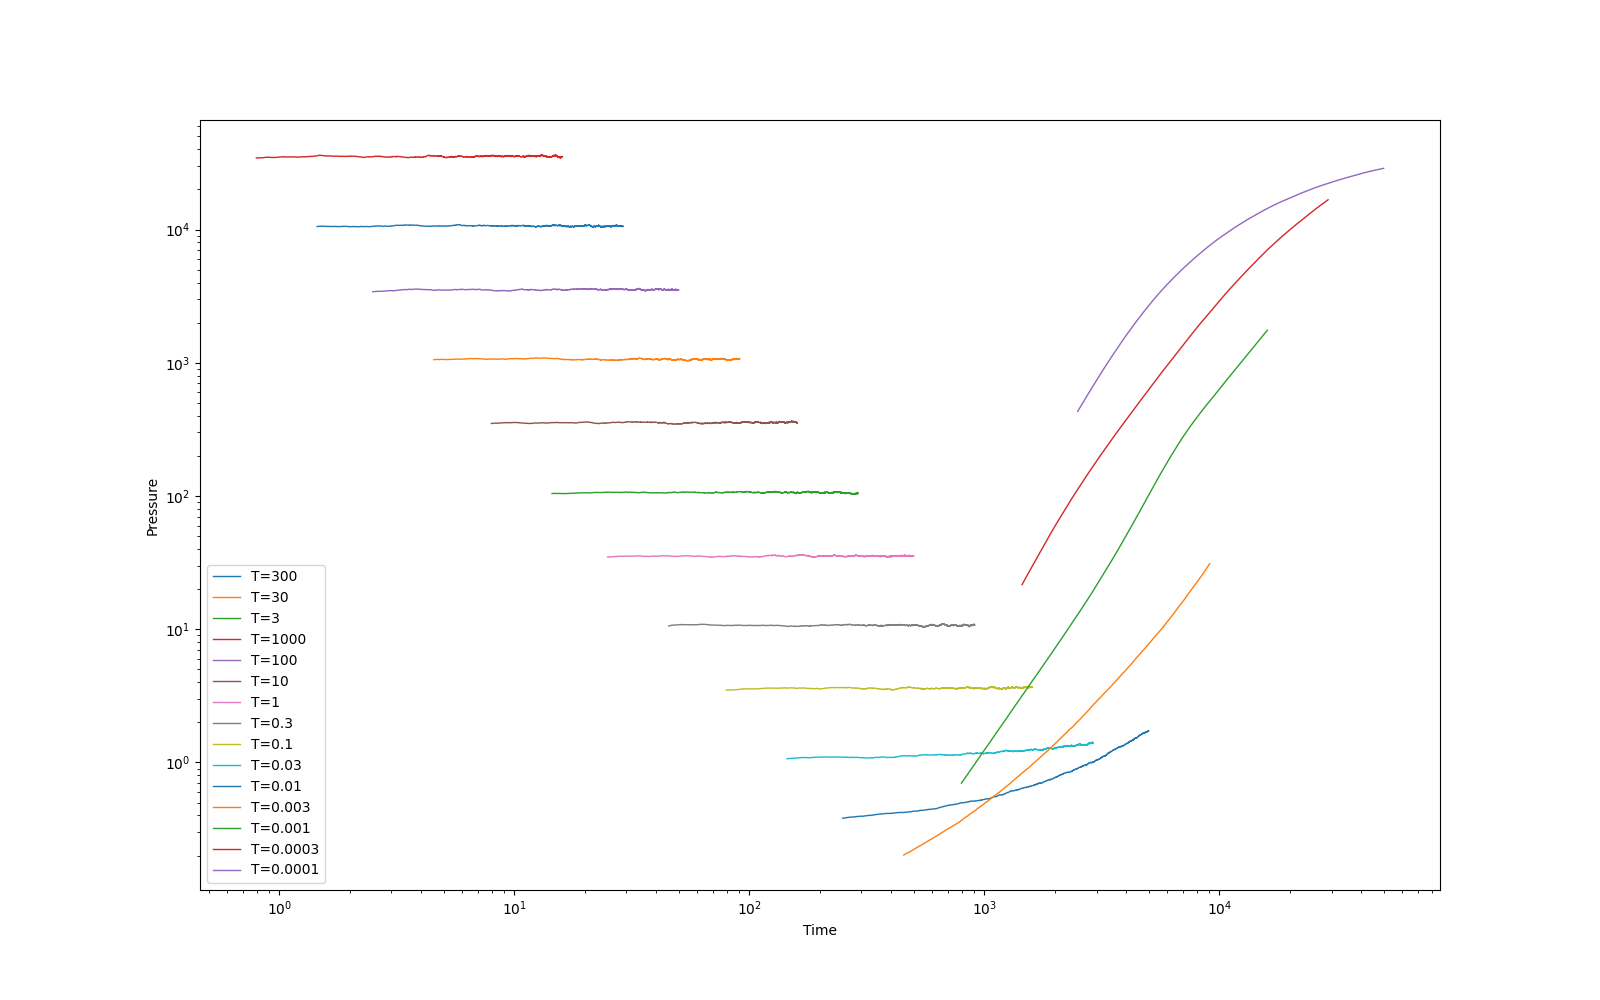
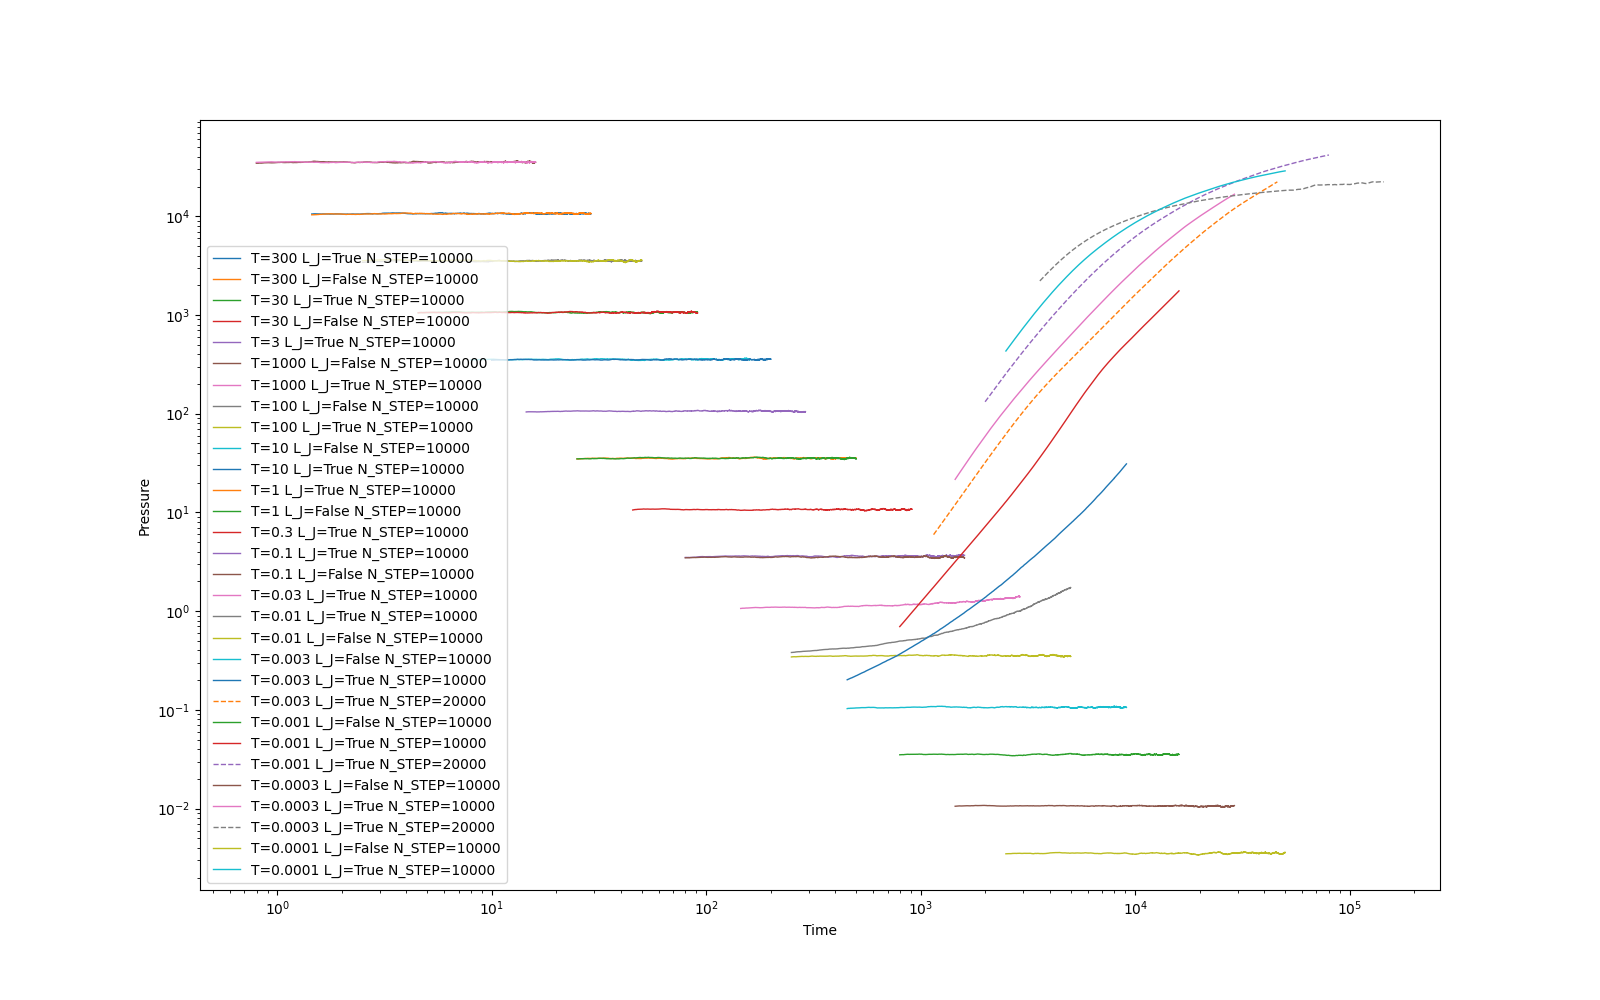
more steps

diff --git a/data/plot_pressure_T.py b/data/plot_pressure_T.py
@@ -11,34 +11,81 @@ T_values = []
 pressures = []
 MASS = 200.0
 final_Ts = []
+l_j = []
+ns = []
 for dir_name in os.listdir('.'):
     if os.path.isdir(dir_name):
         # data\N=131072_L=16_D=0.1_T=1_MASS=200_N_TEST=1_T_STEP=0.2_N_STEP=500_bounded=true
-        pattern = r'N=16384_L=8_D=0.2_T=([\d.]*)_MASS=200_N_TEST=1_T_STEP=([\d.]*)_EPS=1_N_STEP=10000_bounded=true'
-        if re.search(pattern, dir_name):
-            T, dt = re.search(pattern, dir_name).groups()
-            T_values.append(float(T))
-            pressure = pd.read_csv(f'{dir_name}/pressure.csv')
-            pooled_pressure = pressure['pressure'].rolling(window=N_pool).mean()
-            pressures.append((T,pressure['time'],pooled_pressure))
-            final_pressure.append(pressure['pressure'][:-N_pool].mean())
-            v = pd.read_csv(f'{dir_name}/speed.csv')
-            final_T = v['speed'].values.mean()**2 / 3 * MASS
-            final_Ts.append(final_T)
-T_values, final_pressure, final_Ts = zip(*sorted(zip(T_values, final_pressure, final_Ts), key=lambda x: x[0], reverse=True))
+        pattern1 = r'N=16384_L=8_D=0.2_T=([\d.]*)_MASS=200_N_TEST=1_T_STEP=([\d.]*)_EPS=1_N_STEP=10000_bounded=true'
+        pattern1_new = r'N=16384_L=8_D=0.2_T=([\d.]*)_MASS=200_N_TEST=1_T_STEP=([\d.]*)_EPS=1_N_STEP=20000_bounded=true'
+        pattern0 = r'N=16384_L=8_D=0.2_T=([\d.]*)_MASS=200_N_TEST=1_T_STEP=([\d.]*)_EPS=0_N_STEP=10000_bounded=true'
+        pattern_old = r'N=16384_L=8_D=0.2_T=([\d.]*)_MASS=200_N_TEST=1_T_STEP=([\d.]*)_N_STEP=10000_bounded=true'
+        # if re.search(pattern1, dir_name) or re.search(pattern0, dir_name) or re.search(pattern_old, dir_name):
+        if re.search(pattern1, dir_name):
+            T, dt = re.search(pattern1, dir_name).groups()
+            l_j.append(True)
+            ns.append(10000)
+        elif re.search(pattern_old, dir_name):
+            T, dt = re.search(pattern_old, dir_name).groups()
+            l_j.append(False)
+            ns.append(10000)
+        elif re.search(pattern0, dir_name):
+            T, dt = re.search(pattern0, dir_name).groups()
+            l_j.append(False)
+            ns.append(10000)
+        elif re.search(pattern1_new, dir_name):
+            T, dt = re.search(pattern1_new, dir_name).groups()
+            l_j.append(True)
+            ns.append(20000)
+            print(f'Found new pattern: {dir_name}')
+        else:
+            continue
+        T_values.append(float(T))
+        pressure = pd.read_csv(f'{dir_name}/pressure.csv')
+        pooled_pressure = pressure['pressure'].rolling(window=N_pool).mean()
+        pressures.append((T,pressure['time'],pooled_pressure))
+        final_pressure.append(pressure['pressure'][:-N_pool].mean())
+        v = pd.read_csv(f'{dir_name}/speed.csv')
+        final_T = v['speed'].values.mean()**2 / 3 * MASS
+        final_Ts.append(final_T)
+T_values, final_pressure, final_Ts, l_j, ns = zip(*sorted(zip(T_values, final_pressure, final_Ts, l_j, ns), key=lambda x: x[0], reverse=True))
 plt.xlabel('Time')
 plt.ylabel('Pressure')
 plt.xscale('log')
 plt.yscale('log')
 pressures.sort(key=lambda x: x[0], reverse=True)
-for T, t, pooled_pressure in pressures:
-    plt.plot(t, pooled_pressure, label=f'T={T}', linewidth=1)
+for i, (T, t, pooled_pressure) in enumerate(pressures):
+    if ns[i] == 20000:
+        plt.plot(t, pooled_pressure, '--', label=f'T={T} L_J={l_j[i]} N_STEP={ns[i]}', linewidth=1)
+    else:
+        plt.plot(t, pooled_pressure, label=f'T={T} L_J={l_j[i]} N_STEP={ns[i]}', linewidth=1)
 plt.legend()
 plt.savefig('pressure_N=16384_L=8_D=0.2_EPS=1_N_STEP=10000_bounded=true.png')
 plt.clf()
-final_pressure = [p for p in final_pressure if p != 0]
-T_values = [T for T, p in zip(T_values, final_pressure) if p != 0]
-final_Ts = [T for T, p in zip(final_Ts, final_pressure) if p != 0]
+final_pressure_LJ = []
+T_values_LJ = []
+final_Ts_LJ = []
+final_pressure_LJ_new = []
+T_values_LJ_new = []
+final_Ts_LJ_new = []
+final_pressure_nonLJ = []
+T_values_nonLJ = []
+final_Ts_nonLJ = []
+for i, (T, p, T_final, lj) in enumerate(zip(T_values, final_pressure, final_Ts, l_j)):
+    if p != 0:
+        if lj:
+            if ns[i] == 20000:
+                final_pressure_LJ_new.append(p)
+                T_values_LJ_new.append(T)
+                final_Ts_LJ_new.append(T_final)
+            else:
+                final_pressure_LJ.append(p)
+                T_values_LJ.append(T)
+                final_Ts_LJ.append(T_final)
+        else:
+            final_pressure_nonLJ.append(p)
+            T_values_nonLJ.append(T)
+            final_Ts_nonLJ.append(T_final)
 Ts = np.linspace(min(T_values), max(T_values), 100)
 
 # 创建主轴用于压强
@@ -47,7 +94,10 @@ fig, ax1 = plt.subplots(figsize=(12, 8))
 # 绘制压强相关的图
 ax1.plot(Ts, 16384 * Ts / (8 ** 3 - 16384 * 2/3*np.pi*0.2**3), 'r', label='theoretical:$p=\\frac{N k T}{V-\\frac{2}{3}\\pi d^3 N}$')
 ax1.plot(Ts, 16384 * Ts / (8 ** 3 - 16384 * 1/12*np.pi*0.2**3), 'r--', label='$p=\\frac{N k T}{V-\\pi d^3 N / 12}$')
-ax1.scatter(T_values, final_pressure, label='Final Pressure', color='blue')
+ax1.scatter(T_values_nonLJ, final_pressure_nonLJ, label='Final Pressure (non-LJ)', color='green')
+ax1.scatter(T_values_LJ, final_pressure_LJ, label='Final Pressure (LJ)', color='blue')
+print(T_values_LJ_new, final_pressure_LJ_new)
+ax1.scatter(T_values_LJ_new, final_pressure_LJ_new, label='Final Pressure (LJ 20000 steps)', color='cyan')
 
 ax1.set_xlabel('T')
 ax1.set_ylabel('Pressure')  # , color='blue'
@@ -59,7 +109,9 @@ ax1.set_ylim(np.exp(min(np.log(final_pressure)) - 0.5), np.exp(max(np.log(final_
 # 创建右侧y轴用于温度
 ax2 = ax1.twinx()
 ax2.plot(Ts, Ts, label='Initial Temperature', color='orange', linestyle='--')
-ax2.scatter(T_values, final_Ts, label='Final Temperature', marker='x', color='orange', s=50)
+ax2.scatter(T_values_nonLJ, final_Ts_nonLJ, label='Final Temperature (non-LJ)', marker='+', color='purple', s=50)
+ax2.scatter(T_values_LJ, final_Ts_LJ, label='Final Temperature (LJ)', marker='x', color='orange', s=50)
+ax2.scatter(T_values_LJ_new, final_Ts_LJ_new, label='Final Temperature (LJ 20000 steps)', marker='x', color='red', s=50)
 ax2.set_ylabel('Final Temperature')  # , color='orange'
 ax2.set_yscale('log')
 ax2.tick_params(axis='y')  # , labelcolor='orange'

diff --git a/run_configs.py b/run_configs.py
@@ -45,9 +45,10 @@ configs = [
         'mass': 200.0,
         'n_test': 1,
         'e0': 1.5 * T,
-        'dt': float(f"{0.002 / 0.2 ** 2 / T ** 0.5:.2g}"),
+        'dt': float(f"{0.05 / 0.2 ** 2 / T ** 0.5:.2g}"),
         'l_j_epsilon': 1.0,
-    } for T in [0.0001, 0.0003, 0.001, 0.003]
+    # } for T in [0.0001, 0.0003, 0.001, 0.003]
+    } for T in [0.01, 0.03]
     # } for T in [0.01, 0.03, 0.1, 0.3, 1, 3, 10]
     # } for T in [30, 100, 300, 1000]
 ]
@@ -55,16 +56,16 @@ configs = [
 async def main():
     tasks = []
     for i, config in enumerate(configs):
-        config_path = f'config_lj_D{config["d"]}_T{config["temperature"]}.toml'
+        config_path = f'config_D{config["d"]}_T{config["temperature"]}.toml'
         # if not os.path.exists(config_path):
         create_config_file(config, config_path)
-        task = asyncio.create_task(run_rust_program(config_path, 10000, True))
+        task = asyncio.create_task(run_rust_program(config_path, 20000, True))
         tasks.append(task)
         print(f'Start running {config_path} ({i+1}/{len(configs)})')
         await asyncio.sleep(1)
     await asyncio.gather(*tasks)
     for config in configs:
-        os.remove(f'config_lj_D{config["d"]}_T{config["temperature"]}.toml')
+        os.remove(f'config_D{config["d"]}_T{config["temperature"]}.toml')
 
 asyncio.run(main())
 for d in os.listdir('./data'):

diff --git a/src/main.rs b/src/main.rs
@@ -411,6 +411,11 @@ fn main() -> Result<(), Box<dyn std::error::Error>> {
     for value in speed {
         writeln!(file, "{}", value)?;
     }
+    file = File::create(format!("{}/final_state.csv", data_dir))?;
+    writeln!(file, "x,y,z,vx,vy,vz")?;
+    for i in 0..config.n {
+        writeln!(file, "{},{},{},{},{},{}", r[i][0], r[i][1], r[i][2], v[i][0], v[i][1], v[i][2])?;
+    }
     file = File::create(format!("{}/pressure.csv", data_dir))?;
     writeln!(file, "time,pressure")?;
     for (i, value) in pressures.iter().enumerate() {
